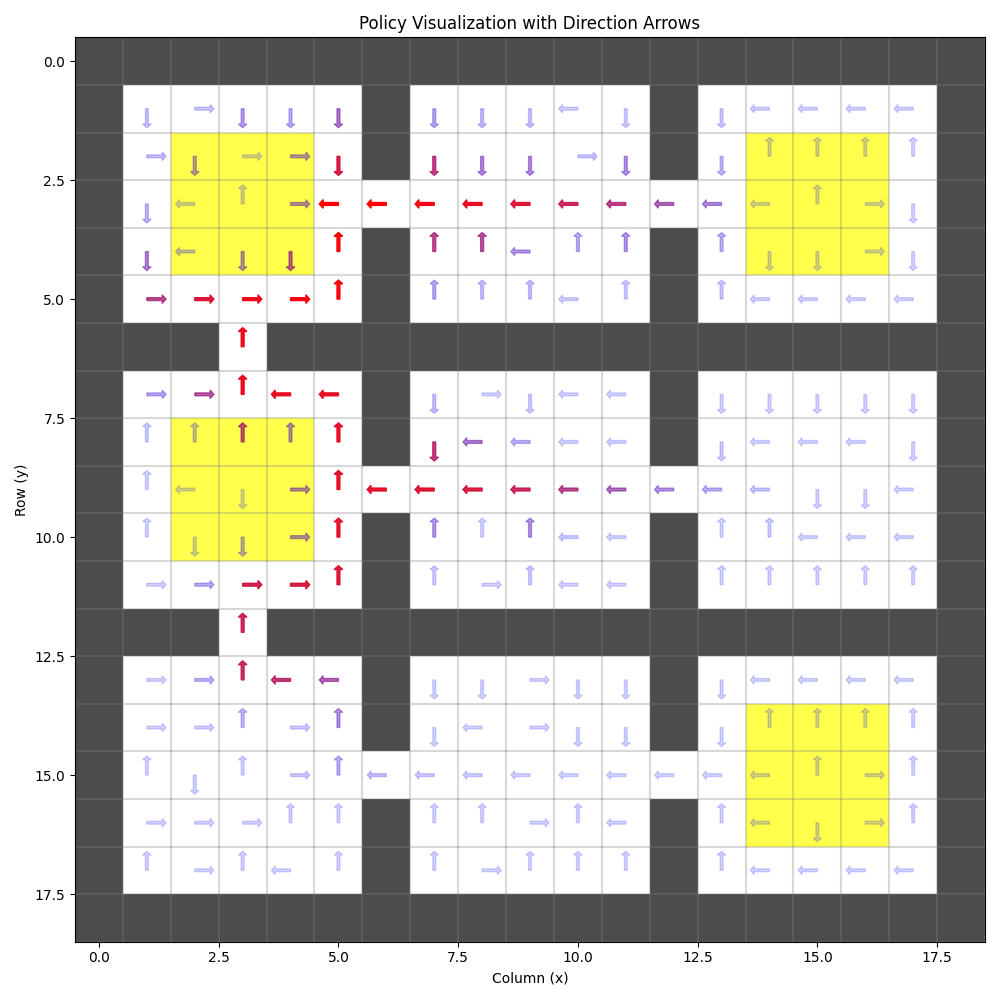
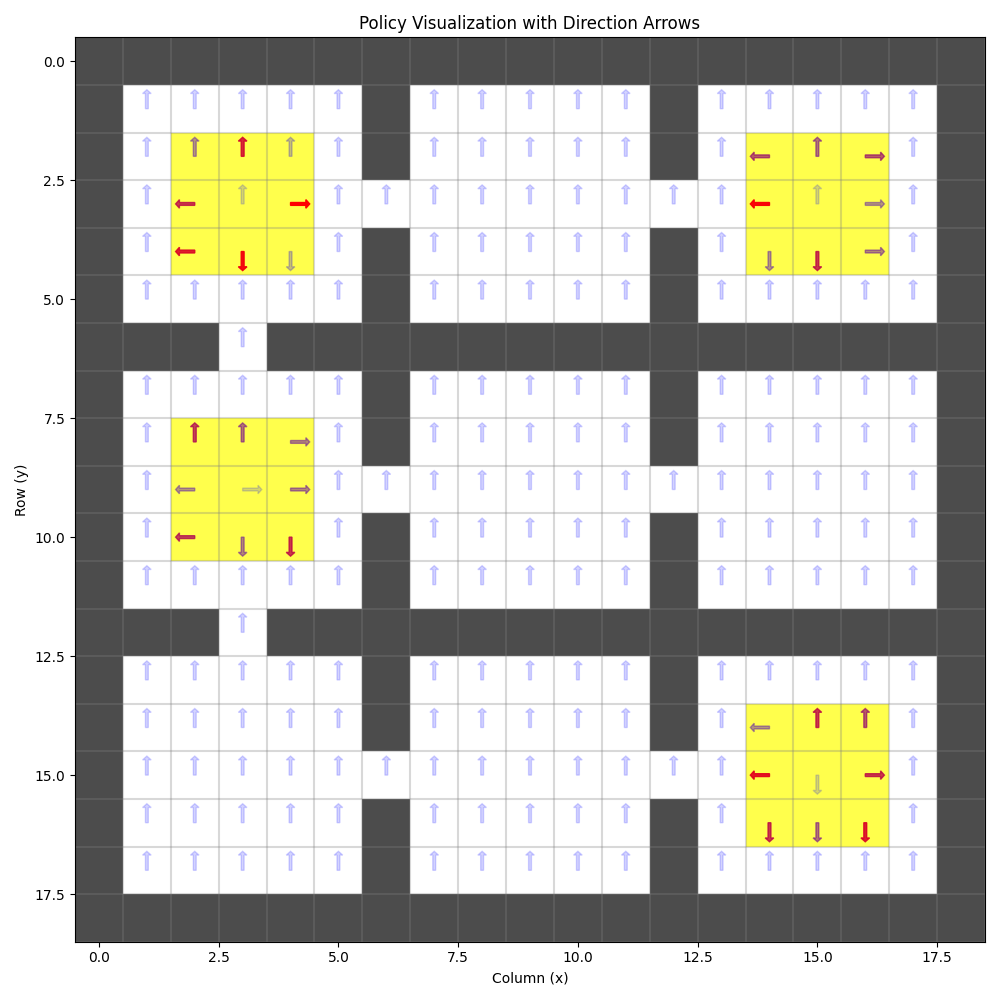
interior goal training rewarding diversity

diff --git a/project/boolean_task.py b/project/boolean_task.py
@@ -37,19 +37,22 @@ class GoalOrientedBase:
     def select_action(self, *args):
         raise NotImplementedError()
 
-    def train_episodes(self, num_episodes=150, max_steps_per_episode=100):
+    def train_episodes(self, num_episodes=150, num_iterations=5, max_steps_per_episode=100):
         """Train the agent using Goal-Oriented Q-Learning."""
         epsilon = self.epsilon
         goal_regions = self.goal_regions
-        for iteration in range(5):
+        # This section is for training elk to reach each goal iteratively.
+        print(f"Beginning training non-goal starting points")
+        for iteration in range(num_iterations):
             random.shuffle(goal_regions)
             for gr, goal_region in goal_regions:
                 done_rate = 0
                 for episode in range(1,num_episodes+1):
                     # Initialize state
-                    state = self.env.start()
+                    state = self.env.start(restriction=torch.where(self.env.terrain==1, 1, 0))
 
                     steps = 0
+                    # recent_goals = []
                     while steps < max_steps_per_episode:
                         action = self.select_action(state, gr)
                         next_state, reward, done = self.env.step(action)
@@ -64,9 +67,13 @@ class GoalOrientedBase:
                                 raise ValueError("Goal not reached, why done >= 2? Should check the code.")
                             elif gr not in all_reached_gr:
                                 # Although some goals are reached, none matches gr. Elk reward is reduced.
-                                reward = 10
-                            else:
-                                training_finished = True
+                                reward = -10
+                            training_finished = True
+
+                            # recent_goals = all_reached_gr
+                        # elif recent_goals:
+                        #     reward = -1
+                        #     recent_goals = []
 
                         self._train(state, action, reward, next_state, all_reached_gr)
                         if training_finished: 
@@ -79,11 +86,68 @@ class GoalOrientedBase:
                         done_rate = (done_rate*episode) / (episode+1)
                     
                     self.epsilon = max(self.epsilon * self.decay_rate, 0.05)
-                
                 print(f"Iteration {iteration} Goal switch why {done_rate}, epsilon {self.epsilon:.2f}")
-                    
-        self.epsilon = epsilon
-    
+
+        self.env._first_restriction = True
+        self.epsilon = epsilon  # reset epsilon
+        # This section is for training within goal starting points, reaching different goals or no goals are encouraged.
+        print(f"Beginning training within goal starting points")
+        done_rate = 0
+        for episode in range(1,1201):
+            state = self.env.start(restriction=torch.where(self.env.terrain>=2, 1, 0))
+            mis_coverage = []
+            all_start_gr = []
+            for gr, mask in goal_regions:
+                if mask[state[0], state[1]]:
+                    all_start_gr.append(gr)
+                else:
+                    mis_coverage.append(gr)
+            if not all_start_gr:
+                raise ValueError("Not in any goal region, why?")
+            elif not mis_coverage:
+                # Already reached all goals
+                continue
+
+            steps = 0
+            while steps < max_steps_per_episode/2:
+                action = self.select_action(state, mis_coverage)
+                next_state, reward, done = self.env.step(action)
+                training_finished = True
+                all_reached_gr = []
+                if done >= 2:
+                    all_reached_gr = [gr for gr, mask in goal_regions if mask[next_state[0], next_state[1]]]
+                    if not all_reached_gr:
+                        raise ValueError("Goal not reached, why done >= 2? Should check the code.")
+                    elif not any(gr in mis_coverage for gr in all_reached_gr):
+                        # Reached some goals different from the starting goals, elk is still encouraged, reward unchanged.
+                        if len(all_reached_gr) < len(all_start_gr):
+                            reward = -1
+                        else:
+                            reward = 0
+                            training_finished = False
+                        all_reached_gr = []
+                else:
+                    all_reached_gr = list(range(len(self.goal_regions)))
+                    reward = -10
+
+                self._train(state, action, reward, next_state, all_reached_gr)
+
+                if training_finished:
+                    done_rate = (done_rate*steps+1) / (steps+1)
+                    break
+
+                state = next_state
+                steps += 1
+                
+            else:
+                done_rate = (done_rate*steps) / (steps+1)
+
+            self.epsilon = max(self.epsilon * self.decay_rate, 0.05)
+            if episode % 200 == 0:
+                print(f"Episode {episode}, why {done_rate} epsilon {self.epsilon:.2f}")
+ 
+        self.epsilon = epsilon  # reset epsilon eventually, training is done for elk
+
     def q_compose(self, mask):
         pass
     
@@ -122,8 +186,11 @@ class GoalOrientedQLearning(GoalOrientedBase):
         '''Select the best action based on currently explored goals'''
         if self._random_condition():
             return random.choice(self.actions)
-         # Choose the best action based on current goals
-        q_sg = self.Q[state[0], state[1], gr]
+        if isinstance(gr, list):  # no subgoal, choose the best action for all subgoals
+            sx, sy = tuple(state[i].expand(len(gr)) for i in range(2))
+            q_sg = torch.max(self.Q[sx, sy, gr], dim=0).values
+        else:
+            q_sg = self.Q[state[0], state[1], gr]
         action_values = {}
         for a in self.actions:
             a_val = q_sg[a].item()

diff --git a/project/reach_avoid_tabular.py b/project/reach_avoid_tabular.py
@@ -12,6 +12,7 @@ class Room:     # An elk grazing in a field
         self.n_actions = n_actions
         self.base = torch.ones((height, width), dtype=torch.bool)
         self._reward_lev = 100
+        self._first_restriction = True
         self.goals = dict[str, torch.BoolTensor]()
         self.always = None
         self.terrain = None
@@ -42,7 +43,11 @@ class Room:     # An elk grazing in a field
         if start_state is not None:
             loc = to_tensor(start_state)
         elif restriction is not None:
-            region = [(r,c) for r,c in self._avail_locs if restriction[r,c] > 0]
+            # region = [(r,c) for r,c in self._avail_locs if restriction[r,c] > 0]
+            region = restriction.nonzero().numpy().tolist()
+            if self._first_restriction:
+                print(f"The restricted region has {len(region)} cells.")
+                self._first_restriction = False
             loc = to_tensor(random.choice(region))
         else:
             loc = to_tensor(random.choice(self._avail_locs))

diff --git a/project/learning.py b/project/learning.py
@@ -185,7 +185,7 @@ class DFA_dijkstra(DFA_Task):
         pass
 
 if __name__ == "__main__":
-    elk_name = "9room"
+    elk_name = "overlap"
     room = load_room("saved_disc", f"{elk_name}.pt", 4)
     if 'starting' in room.goals:
         starting = room.goals.pop('starting')
@@ -194,7 +194,7 @@ if __name__ == "__main__":
     pretrained = False    # Use the elk's existing knowledge
     goal_learner = GoalOrientedQLearning(room)
     if not pretrained:
-        goal_learner.train_episodes(num_episodes=50, max_steps_per_episode=100)
+        goal_learner.train_episodes(num_episodes=50, num_iterations=0, max_steps_per_episode=100)
         torch.save(goal_learner.Q, f"project/static/{elk_name}-q.pt")
     else:
         q_matrix = torch.load(f"project/static/{elk_name}-q.pt")
